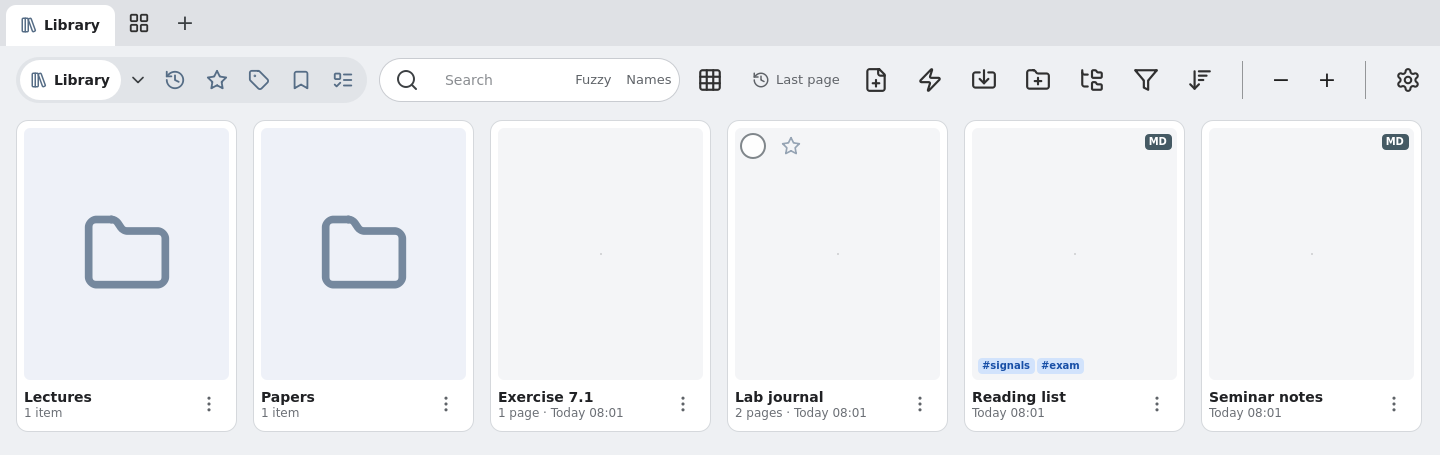
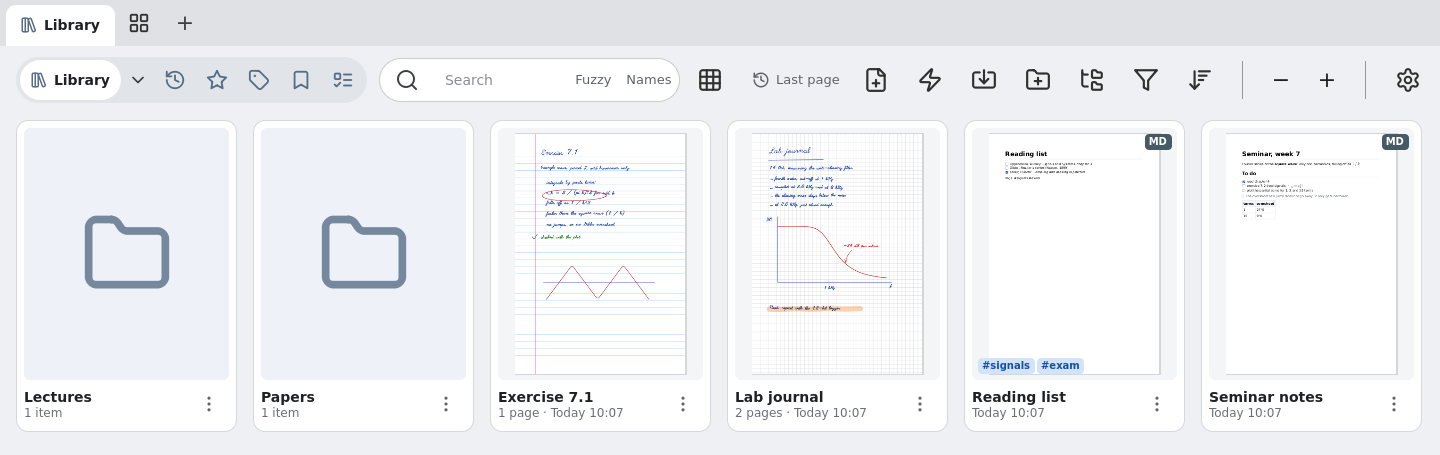
README's library picture: wait until the covers are shown
The library picture of the commit before showed blank covers: the shot waited a fixed 15 s, and that run's covers
(drawn at idle priority) came later. It now waits until every cover image of the grid is loaded (found in the grid's
tree of items: the cards are delegates), and the pointer rests below the cards instead of on one (which showed that
card's select and star buttons).

Claude-Session: https://claude.ai/code/session_012A8pE2JnndyxCjkfArrV7i

diff --git a/qt/tests/ui/MainWindowTest.cpp b/qt/tests/ui/MainWindowTest.cpp
@@ -1427,7 +1427,37 @@ TEST_F(ReadmeShots, theLibrary) {
     window->resize(1440, 900);
     lecture();  // (the lecture is a PDF with notes, as in the other pictures)
     click(find<QQuickItem>("homeTab"));
-    settle(15000);  // (the covers are drawn at idle priority, one after the other)
+    // Until every card's cover is shown: the covers are drawn at idle priority, one after the other
+    auto* grid = find<QQuickItem>("libraryGrid");
+    ASSERT_NE(grid, nullptr);
+    // (the cards are delegates of the grid: in its tree of items, not among its QObject children)
+    std::function<void(QQuickItem*, std::vector<QQuickItem*>&)> coversUnder = [&](QQuickItem* item,
+                                                                                 std::vector<QQuickItem*>& out) {
+        const QUrl source = item->inherits("QQuickImage") ? item->property("source").toUrl() : QUrl();
+        if (source.scheme() == "image" && source.host() == "cover") {
+            out.push_back(item);
+        }
+        for (QQuickItem* child: item->childItems()) {
+            coversUnder(child, out);
+        }
+    };
+    auto coversShown = [&] {
+        std::vector<QQuickItem*> covers;
+        coversUnder(grid, covers);
+        return covers.size() >= 4 &&  // (the two handwritten documents and the two Markdown notes)
+               std::all_of(covers.begin(), covers.end(),
+                           [](QQuickItem* c) { return c->property("status").toInt() == 1; });  // (Image.Ready)
+    };
+    for (int waited = 0; waited < 120000 && !coversShown(); waited += 250) {
+        nextFrame();
+        wait(250);
+    }
+    EXPECT_TRUE(coversShown()) << "the covers did not come";
+    settle(1500);
+    // (the pointer below the cards: over a card it shows the card's select and star buttons)
+    QTest::mouseMove(window, QPoint(window->width() / 2, window->height() - 60));
+    wait(300);
+    nextFrame();
     saveShot(window, "library");
 }
 
